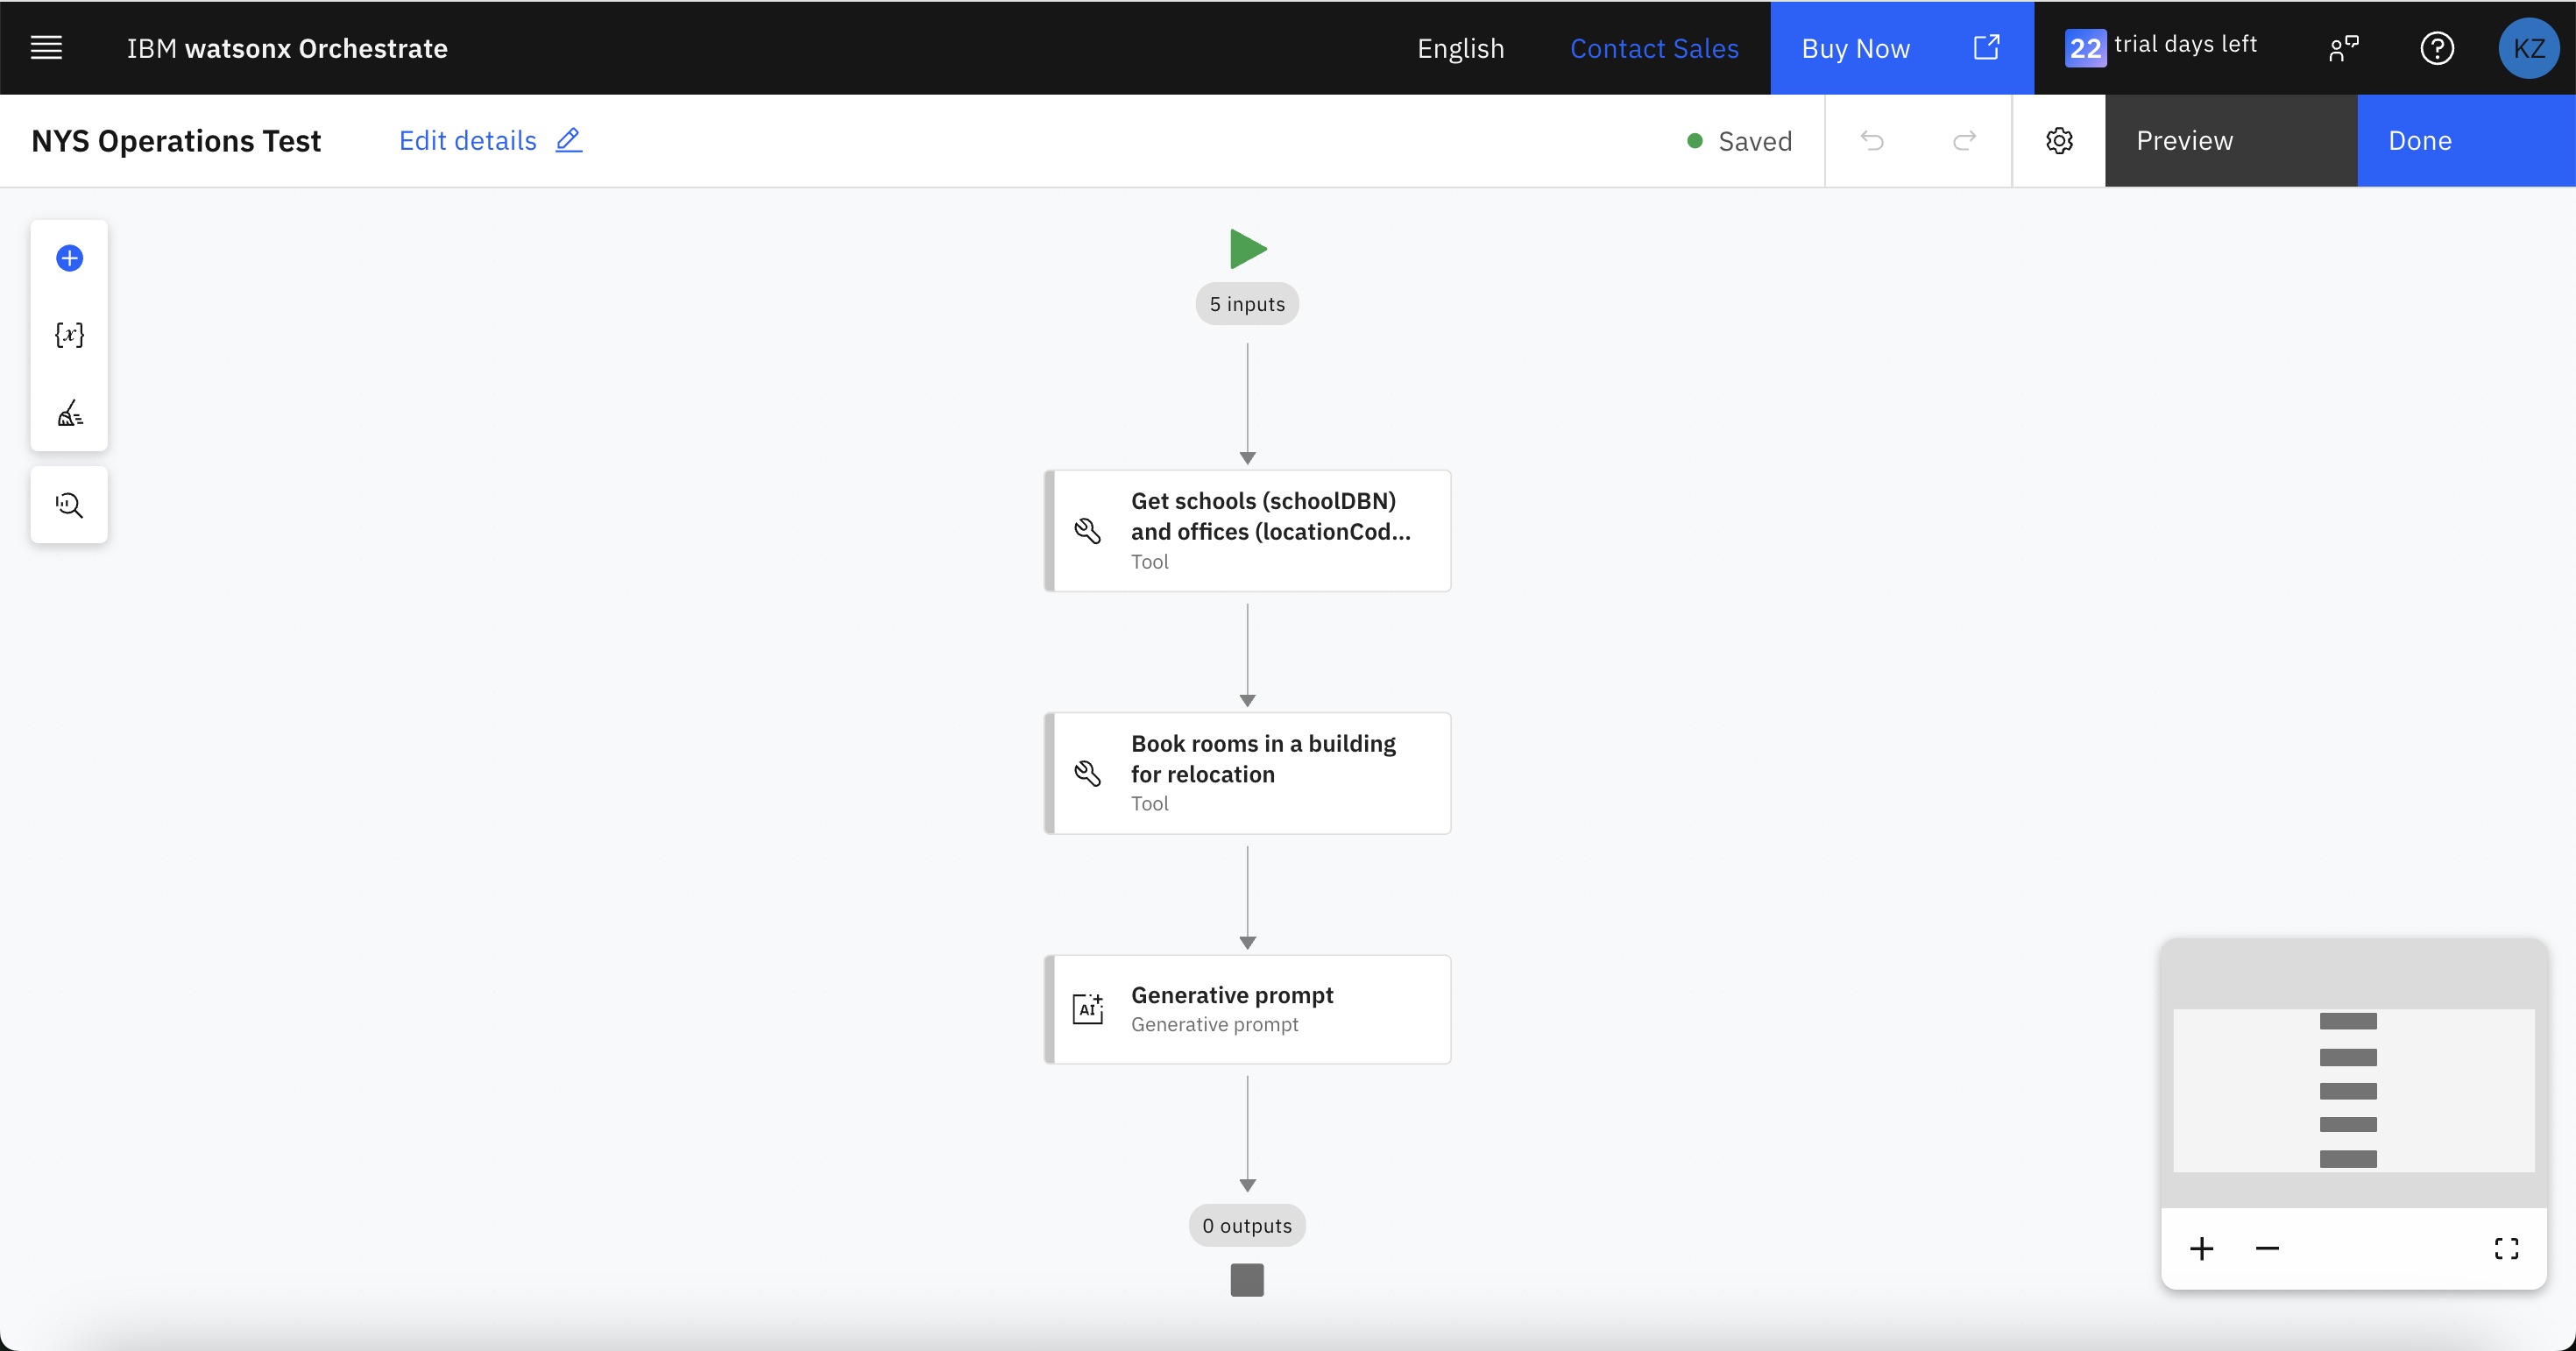
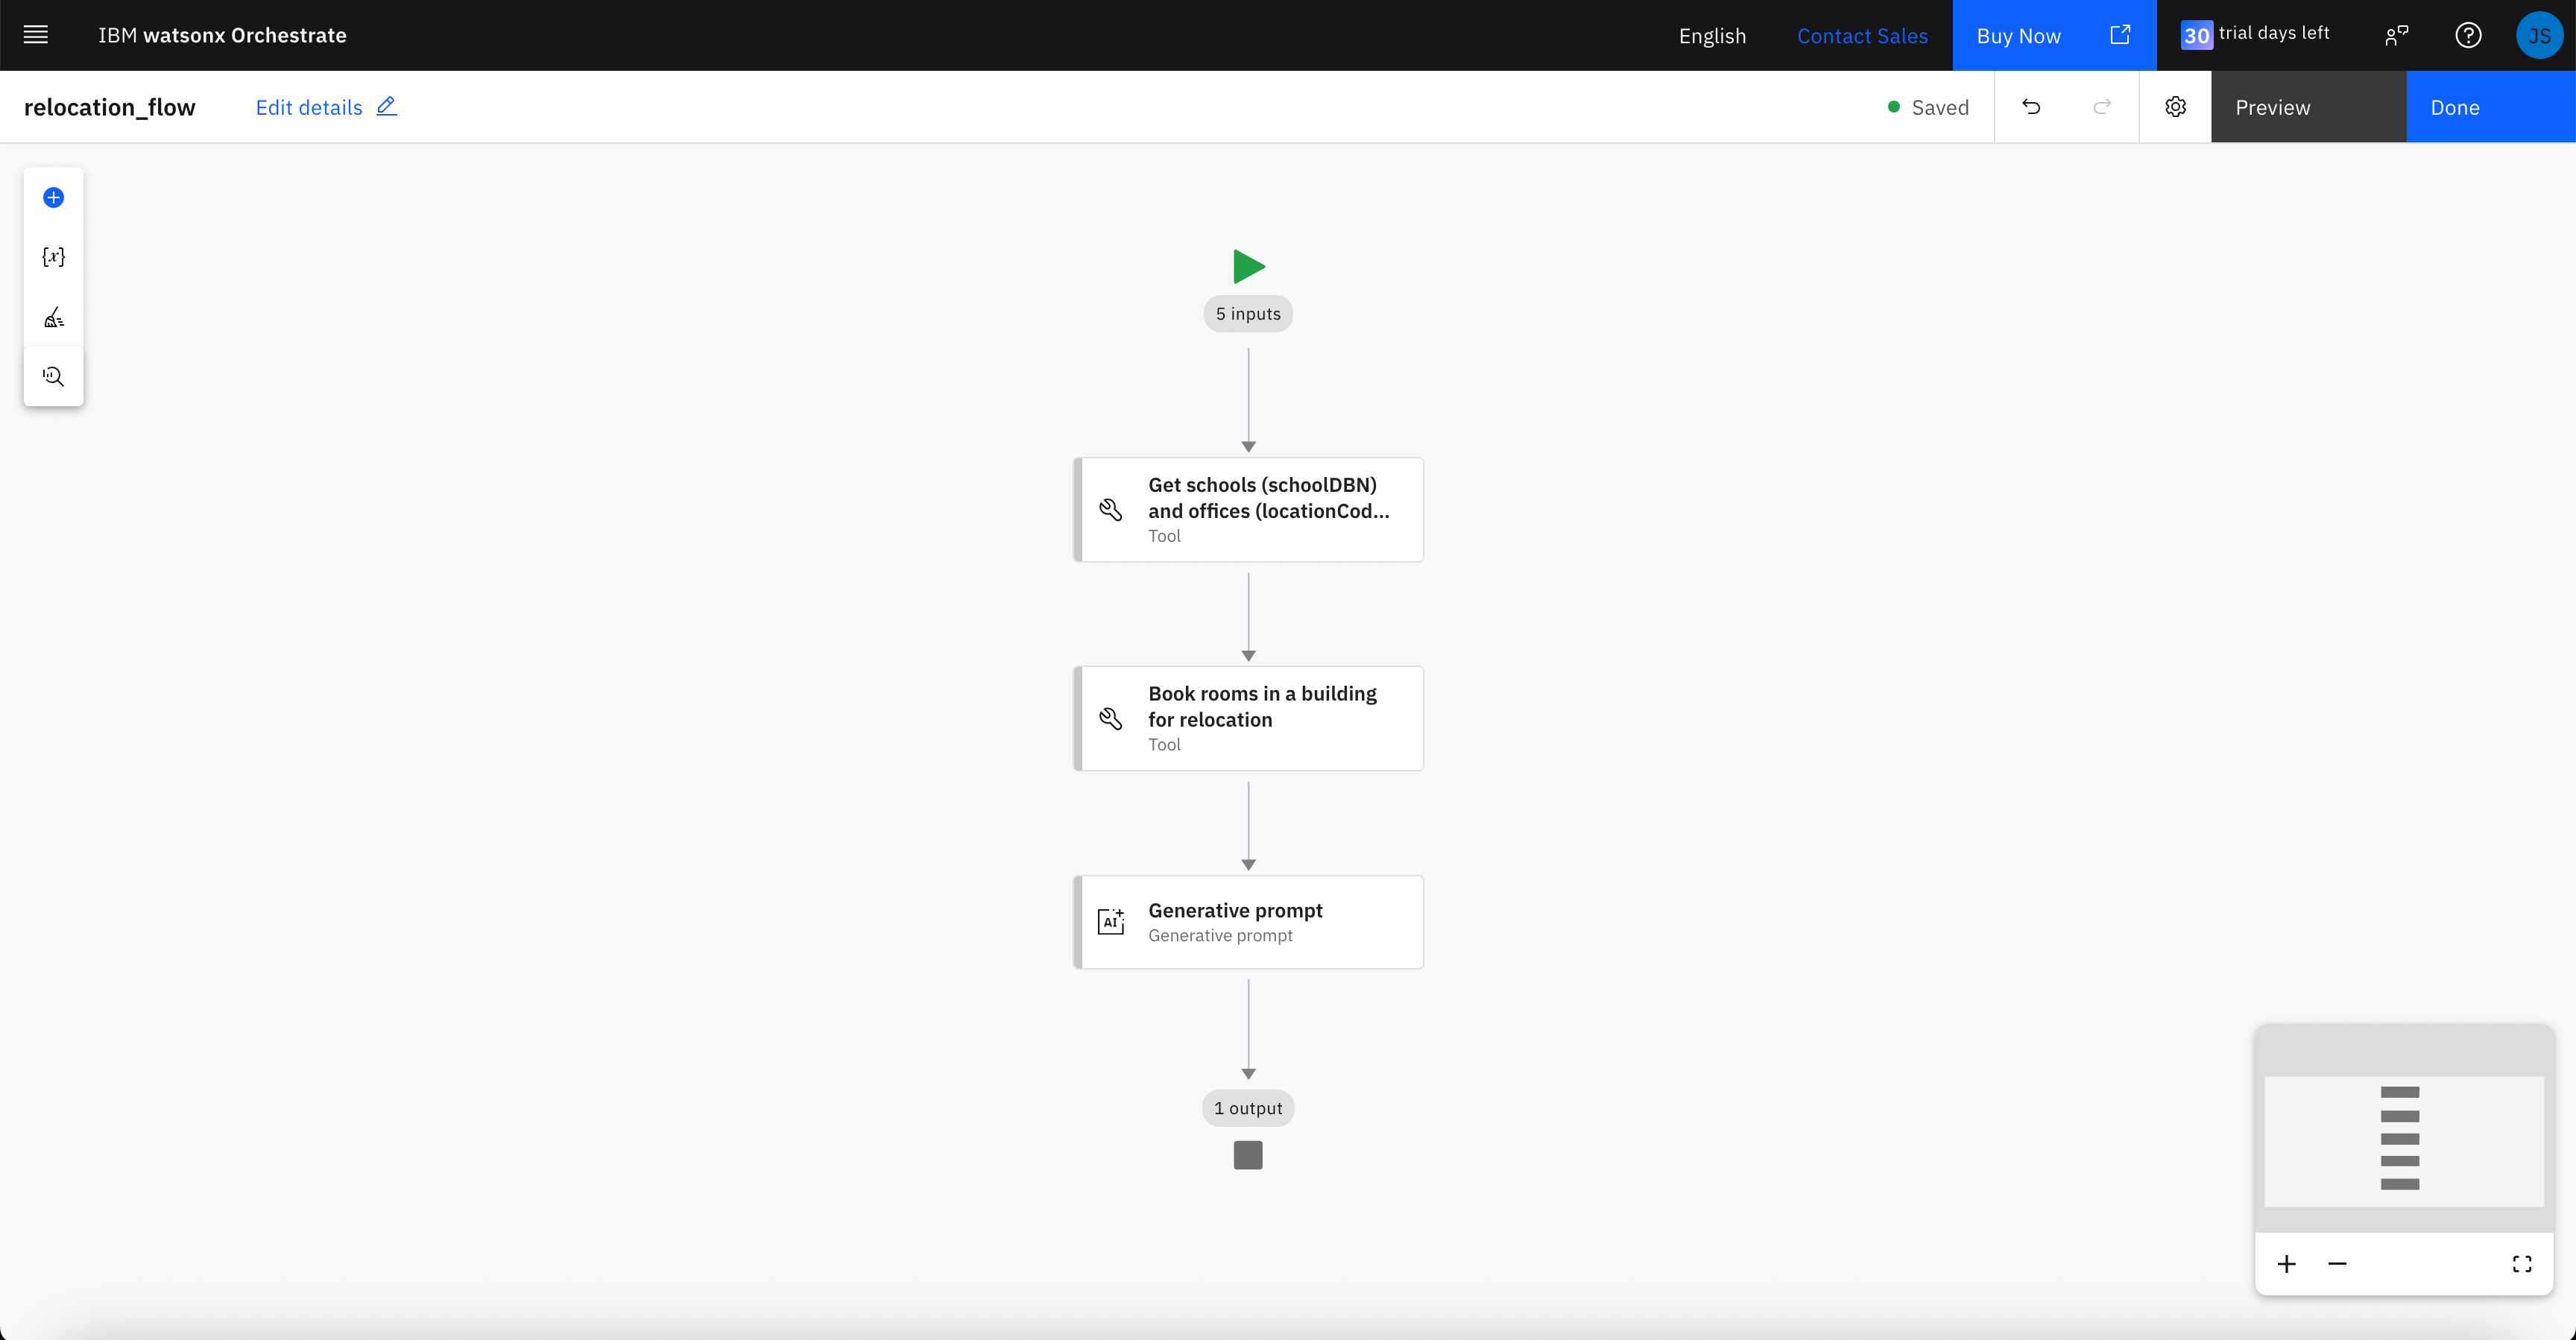
update prompt and pic

diff --git a/Labs/lab_instructions.md b/Labs/lab_instructions.md
@@ -356,8 +356,8 @@ Once you are satisfied with the prompts, you can close the prompt settings.
 1. In the right hand agent chat preview page, send the following message to the chat box and hit **Send**:
 
 ```
-A water main broke at building M007 in District 4. We need to relocate immediately.
-The disruption started today and we need 8 rooms starting 2025-07-21.
+A water main broke at building (buildingCode: M007) in District 4. We need to relocate immediately.
+The disruption started today and we need 4 rooms starting 2026-07-21.
 ```
 
 ![alt text](../Screenshots/operationsmessage.png)
@@ -683,8 +683,8 @@ BEHAVIOUR:
 1. In the right hand agent chat preview page, send the following message to test **The Operations Use Case — Facility Relocation**:
 
 ```
-A water main broke at building code M007 in District 04. We need to relocate immediately.
-The disruption started today and we need 3 rooms starting 2025-07-21.
+A water main broke at building (buildingCode: M007) in District 4. We need to relocate immediately.
+The disruption started today and we need 4 rooms starting 2026-07-21.
 ```
 
 ![alt text](../Screenshots/orchestratormessage1.png)